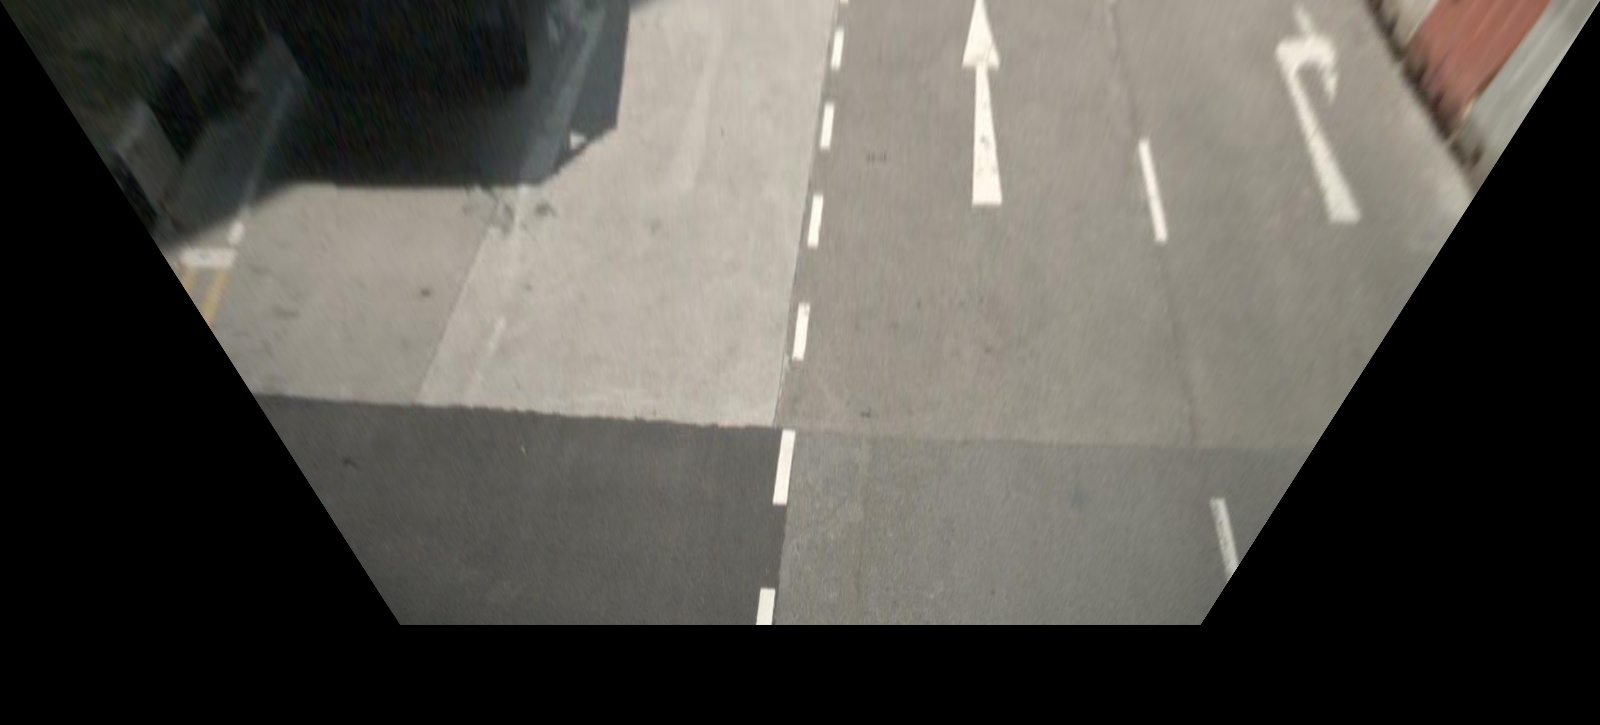
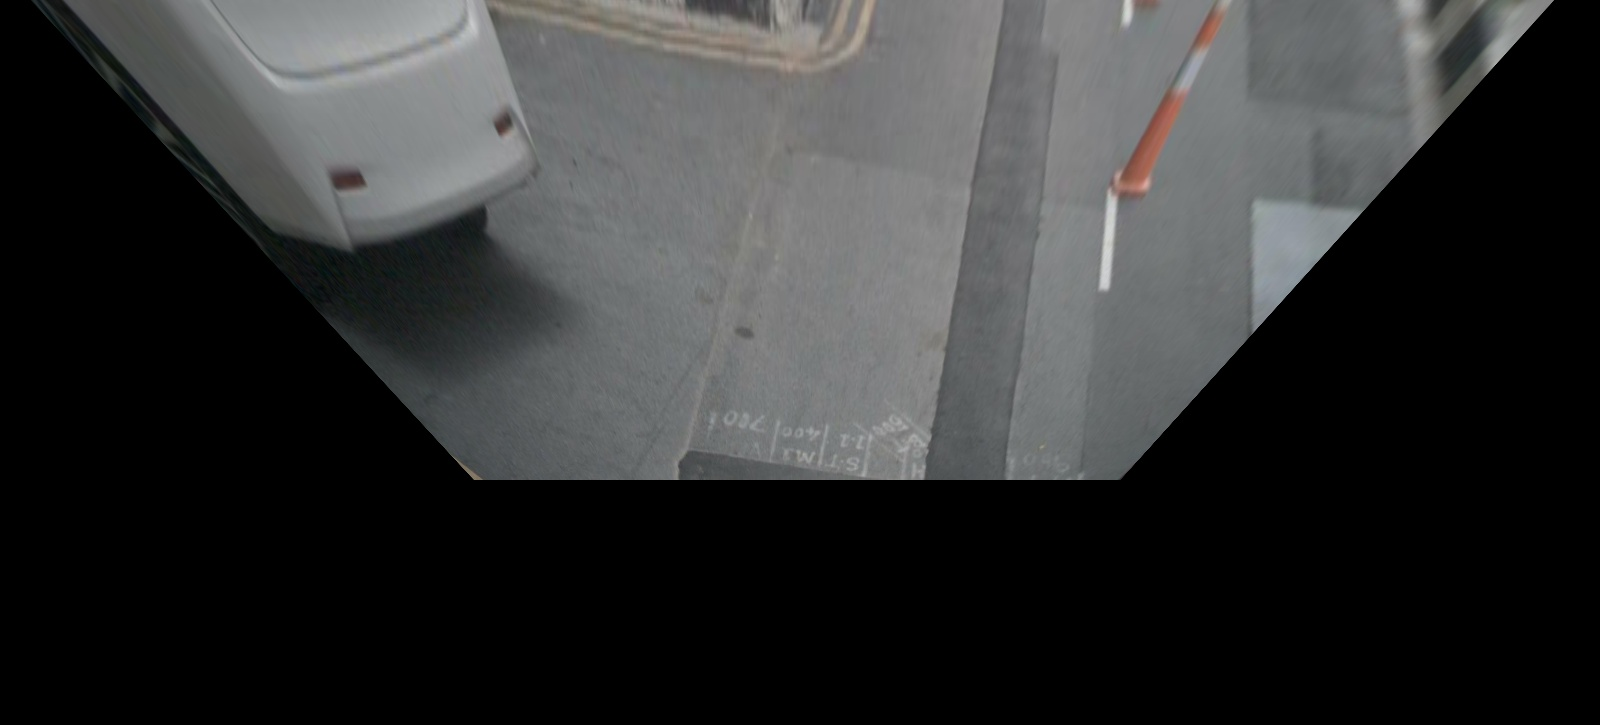
rejoint images using points calculated

diff --git a/src/image_process.cpp b/src/image_process.cpp
@@ -95,7 +95,7 @@ cv::Mat ImageProcess::CutImageMask(cv::Mat image){
 	// int maxcorners = 4;                 // maximal corners' number to be detected
 	// double qualityLevel = 0.1;          // minimal eigenvalue
 	// double minDistance = 600;	        // minimal distance between corners
-	// int blockSize = 20;
+	// int blockSize = 25;
 	// double  k = 0.04;                   // weight coefficient
  
 	// cv::goodFeaturesToTrack(mask_with_corner, corners, maxcorners, qualityLevel, minDistance, cv::Mat(), blockSize, false, k);
@@ -109,10 +109,10 @@ cv::Mat ImageProcess::CutImageMask(cv::Mat image){
 	// }
 
     // detect outline
-    std::vector<std::vector<cv::Point>> contours;
-    std::vector<cv::Vec4i> hierarchy;
-    cv::findContours(mask, contours, hierarchy, CV_RETR_EXTERNAL, CV_CHAIN_APPROX_NONE);
-    int index = 0;
+    // std::vector<std::vector<cv::Point>> contours;
+    // std::vector<cv::Vec4i> hierarchy;
+    // cv::findContours(mask, contours, hierarchy, CV_RETR_EXTERNAL, CV_CHAIN_APPROX_NONE);
+    // int index = 0;
     // for (; index >= 0; index = hierarchy[index][0])
 	// {
     //     cv::drawContours(image, contours, index, (0,0,255), 2,8,hierarchy);
@@ -132,7 +132,7 @@ cv::Mat ImageProcess::RotateImage(cv::Mat image, int w, int h, double angle, dou
     R.at<double>(0, 2) += (bound_w - w) / 2;
     R.at<double>(1, 2) += (bound_h - h) / 2;
 
-    cv::warpAffine(image, image, R, cv::Size(bound_h,bound_w+500));
+    cv::warpAffine(image, image, R, cv::Size(bound_h,bound_w+600));
     return image;
 }
 
@@ -172,7 +172,7 @@ cv::Mat ImageProcess::JoinBEVImage(){
     // cv::imwrite("/home/renjie/workspace/catkin_ws/src/BEV_lidar_cali/images/test_img/test_img_back_right.jpg",image_back_right_);
 
     // joint images
-	int width = 3800; int height = 2800;
+	int width = 5000; int height = 4000;
     result_image = cv::Mat(height, width, CV_8UC3, cv::Scalar::all(0));
 	// cv::Mat result_image_1 = cv::Mat(height, width, CV_8UC3, cv::Scalar::all(0));
 	// cv::Mat ROI_1 = result_image_1(cv::Rect(0,                    0, w1, h1));
@@ -187,21 +187,46 @@ cv::Mat ImageProcess::JoinBEVImage(){
     // cv::Mat result_image_6 = cv::Mat(height, width, CV_8UC3, cv::Scalar::all(0));
     // cv::Mat ROI_6 = result_image_6(cv::Rect(20,                   1303-413, w6, h6));
 
-	cv::Mat ROI_1 = result_image(cv::Rect(0,                    0, w1, h1));
-	cv::Mat ROI_2 = result_image(cv::Rect(805,                  685-620,  w2, h2));
-    cv::Mat ROI_3 = result_image(cv::Rect(805+1202-319,         0, w3, h3));
-    cv::Mat ROI_4 = result_image(cv::Rect(805+1202-319+770-507, 1339-414, w4, h4));
-    cv::Mat ROI_5 = result_image(cv::Rect(20+1002-581,          1303-413+1162-107, w5, h5));
-    cv::Mat ROI_6 = result_image(cv::Rect(20,                   1303-413, w6, h6));
-    
-	// int width = w1 + w2 + w3; int height = std::max(h5+h2+h1+h6, std::max(2*h2+2*h5, h5+h2+h3+h4));
-	// result_image = cv::Mat(height, width, CV_8UC3, cv::Scalar::all(0));
-	// cv::Mat ROI_1 = result_image(cv::Rect(900,    h2-720,  w1, h1));
-	// cv::Mat ROI_2 = result_image(cv::Rect(w1,      10,  w2, h2));
-    // cv::Mat ROI_3 = result_image(cv::Rect(w1 + w2-700, h2-720,  w3, h3));
-    // cv::Mat ROI_4 = result_image(cv::Rect(w1 + w2, h2+h3, w4, h4));
-    // cv::Mat ROI_5 = result_image(cv::Rect(w1,      h3+h4+h2, w5, h5));
-    // cv::Mat ROI_6 = result_image(cv::Rect(0,       h2+h1, w6, h6));
+    //============polygon corner points=============
+    int x_fl_1 = 667; int y_fl_1 = 1190; int x_fl_2 = 1045; int y_fl_2 = 661; 
+    int x_f_1 = 471;  int y_f_1 = 477;   int x_f_2 = 1122;  int y_f_2 = 478;
+    int x_fr_1 = 480; int y_fr_1 = 640;  int x_fr_2 = 857;  int y_fr_2 = 1178;
+    int x_bl_1 = 617; int y_bl_1 = 538;  int x_bl_2 = 846;  int y_bl_2 = 1135;
+    int x_b_1 = 475;  int y_b_1 = 131;   int x_b_2 = 1148;  int y_b_2 = 132;
+    int x_br_1 = 407; int y_br_1 = 1140; int x_br_2 = 625;  int y_br_2 = 527;
+    //============polygon corner points=============
+
+    //==========image position - start xy===========
+    int X_fl = 0;                       int Y_fl = 0;
+    int X_f = x_fl_2 - x_f_1;           int Y_f = y_fl_2 - y_f_1;
+    int X_fr = X_f + x_f_2 - x_fr_1;    int Y_fr = 0;
+    int X_bl = x_fl_1 - x_bl_1;         int Y_bl = y_fl_1 - y_bl_1;
+    int X_b = X_bl + x_bl_2 - x_b_1;    int Y_b = Y_bl + y_bl_2 - y_b_1;
+    int X_br = X_fr + x_fr_2 - x_br_2;  int Y_br = y_fr_2 - y_br_2;
+    int vehicle_X = X_f+x_f_1;          int vehicle_Y = y_fl_1; 
+    int vehicle_W = x_f_2 - x_f_1;      int vehicle_H = Y_b + y_b_1 - y_f_1;
+    //==========image position - start xy===========
+
+    // ratio_image_back = (1.0*(X_br + x_br_1 - x_bl_2))/(1.0*(x_b_2 - x_b_1));
+    // std::cout << "\n"<<ratio_image_back << std::endl;
+
+	cv::Mat ROI_1 = result_image(cv::Rect(X_fl, Y_fl, w1, h1));        // front_left
+	cv::Mat ROI_2 = result_image(cv::Rect(X_f,  Y_f,  w2, h2));        // front
+    cv::Mat ROI_3 = result_image(cv::Rect(X_fr, Y_fr, w3, h3));        // front_right
+    cv::Mat ROI_4 = result_image(cv::Rect(X_br+20, Y_br, w4, h4));     // back_right
+    cv::Mat ROI_5 = result_image(cv::Rect(X_b,  Y_b, w5, h5));         // back
+    cv::Mat ROI_6 = result_image(cv::Rect(X_bl-2, Y_bl, w6, h6));      // back_left
+    cv::Mat ROI_7 = result_image(cv::Rect(vehicle_X, vehicle_Y, vehicle_W, vehicle_H));    // vehicle_model
+
+    //=============test1==================
+	// cv::Mat ROI_1 = result_image(cv::Rect(0,                    0, w1, h1));
+	// cv::Mat ROI_2 = result_image(cv::Rect(805,                  685-620,  w2, h2));
+    // cv::Mat ROI_3 = result_image(cv::Rect(805+1202-319,         0, w3, h3));
+    // cv::Mat ROI_4 = result_image(cv::Rect(805+1202-319+770-507, 1339-414, w4, h4));
+    // cv::Mat ROI_5 = result_image(cv::Rect(20+1002-581,          1303-413+1162-107, w5, h5));
+    // cv::Mat ROI_6 = result_image(cv::Rect(20,                   1303-413, w6, h6));
+    // cv::Mat ROI_7 = result_image(cv::Rect(1205,                 685, 802, 1432-65));
+    //=============test1==================
 
     image_front_left_.copyTo(ROI_1, mask_front_left);
     image_front_right_.copyTo(ROI_3, mask_front_right);
@@ -213,7 +238,6 @@ cv::Mat ImageProcess::JoinBEVImage(){
     // result_image = FuseImage(FuseImage(FuseImage(FuseImage(FuseImage(result_image_1, result_image_2), result_image_3), result_image_4), result_image_5), result_image_6);
 
     // add vehicle picture in middle
-    cv::Mat ROI_7 = result_image(cv::Rect(1205,                 685, 802, 1432-65));
     cv::Mat vehicle_picture = cv::imread("/home/renjie/workspace/catkin_ws/src/BEV_lidar_cali/images/vehicle_picture.jpeg");
     cv::resize(vehicle_picture, vehicle_picture, cv::Size(802,1432-65));
     vehicle_picture.copyTo(ROI_7);
@@ -234,24 +258,16 @@ cv::Mat ImageProcess::PerspectiveTransform(cv::Mat image, std::vector<cv::Point3
     float ROI_WIDTH=1600;
     //************************//
 
-    cv::Point2f P1(700.f, 600.f), P2(900.f, 600.f), 
-                P3(600.f, 900.f), P4(1000.f, 900.f);
+    //=============test1==================
+    // cv::Point2f P1(700.f, 600.f), P2(900.f, 600.f), 
+    //             P3(600.f, 900.f), P4(1000.f, 900.f);
+    //=============test1==================
 
-    // cv::Point2f P3(492.76, 900-75.05),
-    //             P4(1123.18, 900-75.05),
-    //             P1(597.83, 900-285.19),
-    //             P2(1018.11, 900-285.19);
-
-    // cv::Point2f P3(492.76, 900-180.12),
-    //             P4(1123.18, 900-180.12),
-    //             P1(597.83, 900-285.19),
-    //             P2(1018.11, 900-285.19);
-    
-    // cv::Point2f P1, P2, P3, P4;
-    // P3.x = points[0].x; P3.y = 900 - points[0].y;
-    // P4.x = points[1].x; P4.y = 900 - points[1].y;
-    // P1.x = points[2].x; P1.y = 900 - points[2].y;
-    // P2.x = points[3].x; P2.y = 900 - points[3].y;
+    cv::Point2f P1, P2, P3, P4;
+    P3.x = points[0].x; P3.y = 900 - points[0].y;
+    P4.x = points[1].x; P4.y = 900 - points[1].y;
+    P1.x = points[2].x; P1.y = 900 - points[2].y;
+    P2.x = points[3].x; P2.y = 900 - points[3].y;
 
     corners.push_back(P1);
     corners.push_back(P2);
@@ -261,6 +277,7 @@ cv::Mat ImageProcess::PerspectiveTransform(cv::Mat image, std::vector<cv::Point3
     // set width of perspective image
     float IPM_WIDTH=1600;
     float N=8;
+
     // make widith of perspcetive image as N * width of vehicle front part
     float sacale=(IPM_WIDTH/N)/ROI_WIDTH;
     float IPM_HEIGHT=ROI_HEIGHT*sacale;
@@ -290,10 +307,15 @@ cv::Mat ImageProcess::BirdEyeView(std::vector<cv::Mat> images){
     // directly choose points in camera coordinate
     std::vector<cv::Point3f> real_points;
     std::vector<cv::Point3f> points;
-    cv::Point3f P1(-3.f, -5.f, 20.f), P2(3.f, -5.f, 20.f), 
-                P3(-3.f, -5.f, 30.f), P4(3.f, -5.f, 30.f);
-    // cv::Point3f P1(-5.f, -5.f, 20.f), P2(5.f, -5.f, 20.f), 
-    //             P3(-5.f, -5.f, 30.f), P4(5.f, -5.f, 30.f);
+
+    //=============test1==================
+    // cv::Point3f P1(-5.f, -10.f, 20.f), P2(5.f, -10.f, 20.f), 
+    //             P3(-5.f, -10.f, 30.f), P4(5.f, -10.f, 30.f);
+    //=============test1==================
+
+    cv::Point3f P1(-5.f, -10.f, 15.f), P2(5.f, -10.f, 15.f), 
+                P3(-5.f, -10.f, 60.f), P4(5.f, -10.f, 60.f);
+
     real_points.push_back(P1);
     real_points.push_back(P2);
     real_points.push_back(P3);
@@ -320,7 +342,12 @@ cv::Mat ImageProcess::BirdEyeView(std::vector<cv::Mat> images){
     points = processor.GetPoints(real_points, "CAM_BACK_LEFT");
     image_back_left_ = PerspectiveTransform(images[5], points);
 
-    cv::resize(image_back_,image_back_,cv::Size(image_back_.cols * 1.4557, image_back_.rows));
+    //=============test1==================
+    // cv::resize(image_back_,image_back_,cv::Size(image_back_.cols * 1.4557, image_back_.rows));
+    //=============test1==================
+
+    cv::resize(image_back_,image_back_,cv::Size(image_back_.cols * 1.49926, image_back_.rows));
+
     // join images
     result_image = JoinBEVImage();
 

diff --git a/test/test_get_points.cpp b/test/test_get_points.cpp
@@ -7,8 +7,8 @@ int main(int argc, char **argv){
     std::vector<cv::Point3f> img_points;
 
     // directly choose points in camera coordinate
-    cv::Point3f P1(-5.f, -5.f, 20.f), P2(5.f, -5.f, 20.f), 
-                P3(-5.f, -5.f, 30.f), P4(5.f, -5.f, 30.f);
+    cv::Point3f P1(-5.f, -10.f, 15.f), P2(5.f, -10.f, 15.f), 
+                P3(-5.f, -10.f, 40.f), P4(5.f, -10.f, 40.f);
 
     // cv::Point3f P1(-5.f, -5.f, 15.f), P2(5.f, -5.f, 15.f), 
     //             P3(-5.f, -5.f, 30.f), P4(5.f, -5.f, 30.f);

diff --git a/test/test_cut_img.cpp b/test/test_cut_img.cpp
@@ -4,7 +4,7 @@ using namespace bevlidar;
 
 int main(int argc, char **argv){
     ImageProcess processor;
-    cv::Mat img = cv::imread("/home/renjie/workspace/catkin_ws/src/BEV_lidar_cali/images/test_img/test_img_back.jpg");
+    cv::Mat img = cv::imread("/home/renjie/workspace/catkin_ws/src/BEV_lidar_cali/images/test_img/test_img_front_right.jpg");
     img = processor.CutImageMask(img);
     std::cout << "image width: " << img.cols << std::endl;
     std::cout << "image height: " << img.rows << std::endl;

diff --git a/include/bev_lidar_cali/image_process.hpp b/include/bev_lidar_cali/image_process.hpp
@@ -25,6 +25,7 @@ class ImageProcess{
         cv::Mat image_back_right_;
         cv::Mat image_back_;
         cv::Mat image_back_left_;
+        double ratio_image_back;
 
     public:
         cv::Mat BirdEyeView(std::vector<cv::Mat> images);
